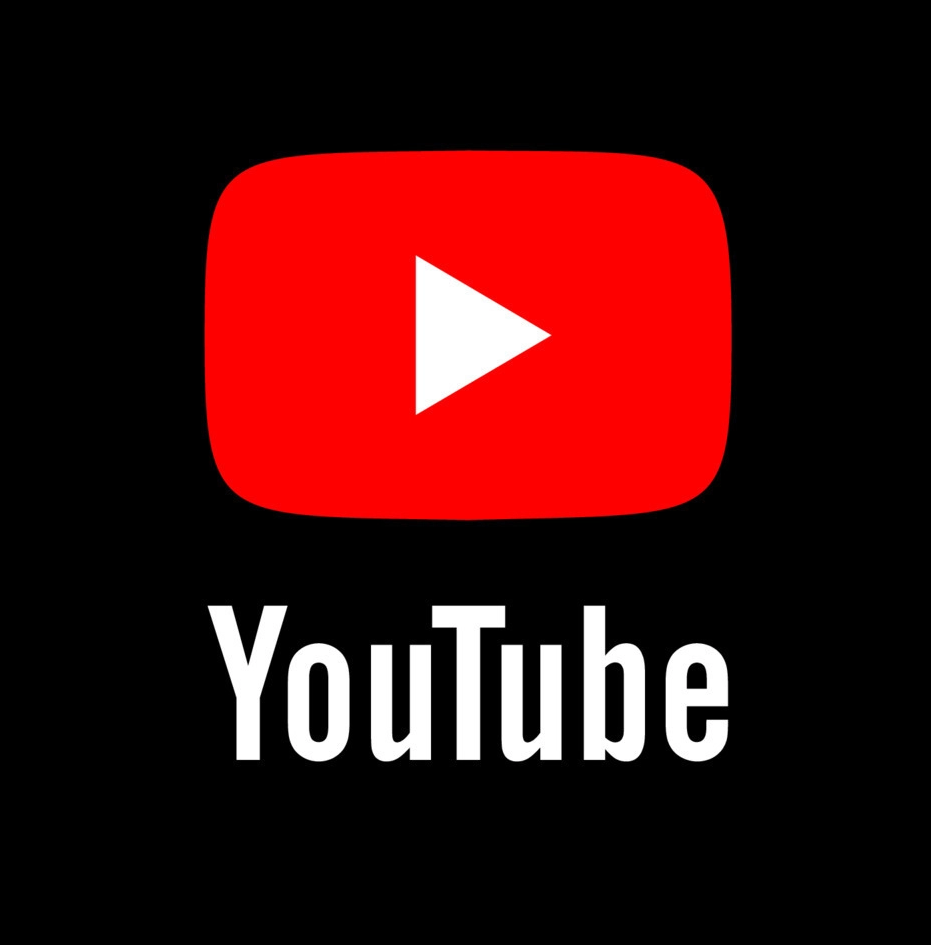
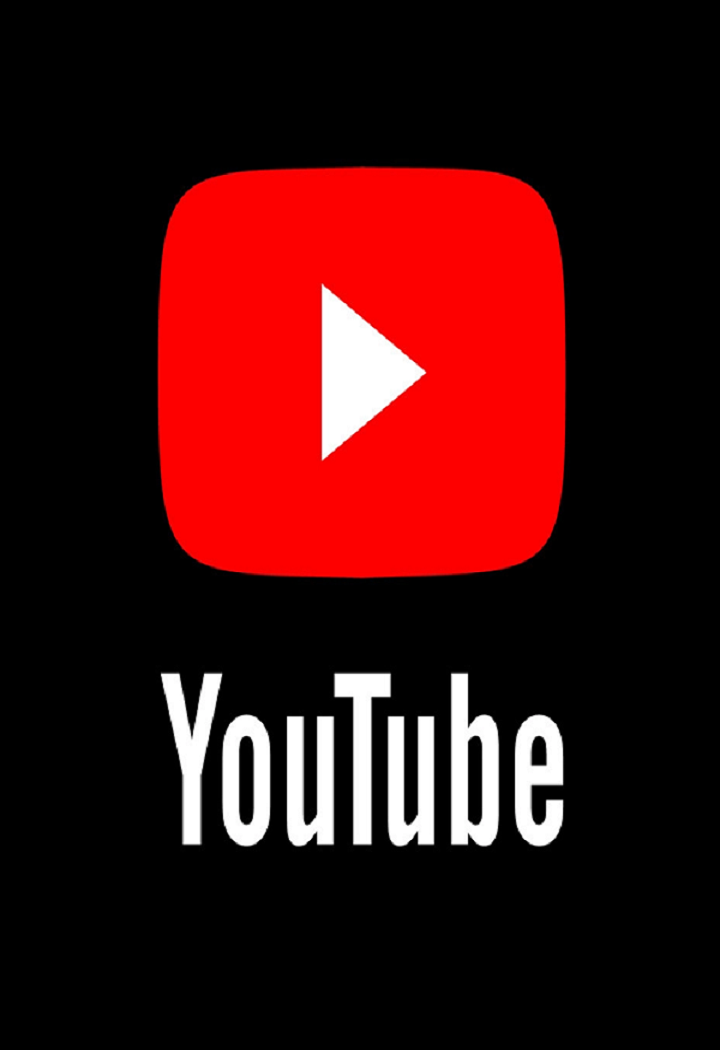
메인 홈 정리 및 뉴스, 광고 추가

Changed region(s): [[0.3972, 0.6751, 0.4278, 0.7672], [0.7333, 0.7058, 0.7639, 0.7672]]

diff --git a/src/main/resources/templates/index.html b/src/main/resources/templates/index.html
@@ -52,45 +52,161 @@
             </form>
         </div> -->
   </nav>
-  <div class="container">
-    <div style ="width:400px; height:500px; border:5px solid">
-    <div id="carouselExampleDark" class="carousel carousel-dark slide" data-bs-ride="carousel">
-      <div class="carousel-indicators">
-        <button type="button" data-bs-target="#carouselExampleDark" data-bs-slide-to="0" class="active d-inline-flex focus-ring focus-ring-light py-1 px-2 text-decoration-none border rounded-2"
-          aria-current="true" aria-label="Slide 1"></button>
-        <button type="button" data-bs-target="#carouselExampleDark" data-bs-slide-to="1" class="d-inline-flex focus-ring focus-ring-light py-1 px-2 text-decoration-none border rounded-2"
-         aria-label="Slide 2"></button>
-        <button type="button" data-bs-target="#carouselExampleDark" data-bs-slide-to="2" class="d-inline-flex focus-ring focus-ring-light py-1 px-2 text-decoration-none border rounded-2"
-         aria-label="Slide 3"></button>
-        <button type="button" data-bs-target="#carouselExampleDark" data-bs-slide-to="3" class="d-inline-flex focus-ring focus-ring-light py-1 px-2 text-decoration-none border rounded-2"
-         aria-label="Slide 4"></button>
-      </div>
-      <div class="carousel-inner">
-        <div class="carousel-item active" data-bs-interval="8000">
-          <a href="https://www.inflearn.com" target="_blank"><img src="image/inflearn.png" style="width:400px; height: 490px;" class="d-block w-100" alt="..."></a>
-        </div>
-        <div class="carousel-item" data-bs-interval="8000">
-          <a href="https://comic.naver.com/index" target="_blank"><img src="image/webtoon.png" style="width:400px; height: 490px;" class="d-block w-100" alt="..."></a>
-        </div>
-        <div class="carousel-item" data-bs-interval="8000">
-          <a href="https://www.youtube.com" target="_blank"><img src="image/youtube.png" style="width:400px; height: 490px;" class="d-block w-100" alt="..."></a>
-        </div>
-        <div class="carousel-item" data-bs-interval="8000">
-          <a href="https://github.com/" target="_blank"><img src="image/git.png" style="width:400px; height: 490px;" class="d-block w-100" alt="..."></a>
-        </div>
-      </div>
-      <button class="carousel-control-prev" type="button" data-bs-target="#carouselExampleDark" data-bs-slide="prev">
-        <span class="carousel-control-prev-icon d-inline-flex focus-ring focus-ring-success py-1 px-2 text-decoration-none border rounded-2" aria-hidden="true"></span>
-        <span class="visually-hidden">Previous</span>
-      </button>
-      <button class="carousel-control-next" type="button" data-bs-target="#carouselExampleDark" data-bs-slide="next">
-        <span class="carousel-control-next-icon d-inline-flex focus-ring focus-ring-success py-1 px-2 text-decoration-none border rounded-2" aria-hidden="true"></span>
-        <span class="visually-hidden">Next</span>
-      </button>
-    </div>
-    </div>
-  </div>
+  <div class="container-lg">
 
+    <div class="row">
+
+      <div class="col-sm-5">
+        <div id="carouselExampleDark" class="carousel carousel-dark slide" data-bs-ride="carousel">
+          <div class="carousel-indicators">
+            <button type="button" data-bs-target="#carouselExampleDark" data-bs-slide-to="0" class="active"
+              aria-current="true" aria-label="Slide 1"></button>
+            <button type="button" data-bs-target="#carouselExampleDark" data-bs-slide-to="1"
+              aria-label="Slide 2"></button>
+            <button type="button" data-bs-target="#carouselExampleDark" data-bs-slide-to="2"
+              aria-label="Slide 3"></button>
+            <button type="button" data-bs-target="#carouselExampleDark" data-bs-slide-to="3"
+              aria-label="Slide 4"></button>
+          </div>
+          <div class="carousel-inner rounded mx-auto d-block">
+            <div class="carousel-item active" data-bs-interval="5000">
+              <a href="https://www.inflearn.com" target="_blank">
+                <img src="image/inflearn.png" class="d-block w-100">
+              </a>
+            </div>
+            <div class="carousel-item" data-bs-interval="5000">
+              <a href="https://github.com" target="_blank">
+              <img src="image/git.png" class="d-block w-100">
+              </a>
+            </div>
+            <div class="carousel-item" data-bs-interval="5000">
+              <a href="https://www.youtube.com" target="_blank">
+              <img src="image/youtube.png" class="d-block w-100">
+              </a>
+            </div>
+            <div class="carousel-item" data-bs-interval="5000">
+              <a href="https://comic.naver.com/index" target="_blank">
+              <img src="image/webtoon.png" class="d-block w-100">
+              </a>
+            </div>
+          </div>
+          <button class="carousel-control-prev" type="button" data-bs-target="#carouselExampleDark"
+            data-bs-slide="prev">
+            <span class="carousel-control-prev-icon" aria-hidden="true"></span>
+            <span class="visually-hidden">Previous</span>
+          </button>
+          <button class="carousel-control-next" type="button" data-bs-target="#carouselExampleDark"
+            data-bs-slide="next">
+            <span class="carousel-control-next-icon" aria-hidden="true"></span>
+            <span class="visually-hidden">Next</span>
+          </button>
+        </div>
+      </div>
+
+      <div class="col-sm-7">
+
+        <div class="row">
+
+          <div class="row-8 row-sm-6">
+            <figure class="figure">
+              <a href="https://www.adobe.com/kr/lead/creativecloud/individual.html?sdid=KQQQV3R6&mv=display"
+              target="_blank">
+              <img src="image/car.jpg" class="img-thumbnail"></a>
+              <figcaption class="figure-caption text-end">상단의 일일 광고를 누르면 새 창에서 연결됩니다.</figcaption>
+            </figure>
+          </div>
+          <div class="row-4 row-sm-6 img-thumbnail ml-1">
+            <font size=5><b>Daily News</b></font>
+            <div class="btn-group float-end">
+              <button class="btn btn-secondary btn-sm" type="button">
+                바로가기
+              </button>
+              <button type="button" class="btn btn-sm btn-secondary dropdown-toggle dropdown-toggle-split"
+                data-bs-toggle="dropdown" aria-expanded="false">
+                <span class="visually-hidden">바로가기</span>
+              </button>
+              <ul class="dropdown-menu">
+                <li><a class="dropdown-item" href="https://www.joongang.co.kr/" target="_blank">중앙일보</a></li>
+                <li><a class="dropdown-item" href="https://www.ytn.co.kr/" target="_blank">YTN</a></li>
+                <li><a class="dropdown-item" href="https://www.yna.co.kr/" target="_blank">연합뉴스</a></li>
+              </ul>
+            </div>
+
+            <div class="col img-thumbnail my-2">
+              <div class="row">
+                <div class="col-sm-8">
+                  <img src="image/thum1.jpg" style="border-radius: 70%;">
+                  <a href="https://www.seoul.co.kr/"
+                    class="line nope" target="_blank">
+                    <font size=2>서울신문<br></font>
+                  </a>
+                  <a href="https://www.seoul.co.kr/news/newsView.php?id=20230522500072&wlog_tag3=naver"
+                    class="mainnope" target="_blank">
+                    <font size=4><b>[속보] 검찰 '마약 혐의 홍길동 구속영장 청구</b><br></font>
+                  </a>
+                  <a href="https://www.seoul.co.kr/news/newsView.php?id=20230522500072&wlog_tag3=naver"
+                    class="textline nope" target="_blank">
+                    <font size=2>검찰이 프로포폴과 코카인 등 마약류 투약 혐의를 받고 있는 배우 홍길동에 대해 22일 구속영장을 청구했다.
+                      경찰 등에 따르면 서울중앙지검은 이날 마약류 관리에 관한 법률 위반 혐의를 받는 홍씨와 그의...
+                    </font>
+                  </a>
+                </div>
+                <div class="col-sm-4">
+                  <img src="image/news1.jpg" class="img-thumbnail">
+                </div>
+              </div>
+            </div>
+            <div class="col img-thumbnail my-2">
+              <div class="row">
+                <div class="col-sm-8">
+                  <img src="image/thum2.jpg" style="border-radius: 70%;">
+                  <a href="https://www.moneys.co.kr"
+                    class="line nope" target="_blank">
+                    <font size=2>머니S<br></font>
+                  </a>
+                  <a href="https://www.moneys.co.kr/news/mwView.php?no=2023052213065849550"
+                    class="mainnope" target="_blank">
+                    <font size=4><b>[단독] 다음·네이버 '뉴스제휴평가위원회' 잠정 중단...</b><br></font>
+                  </a>
+                  <a href="https://www.moneys.co.kr/news/mwView.php?no=2023052213065849550"
+                    class="textline nope" target="_blank">
+                  <font size=2>뉴스제휴평가위원회(제평위)가 활동을 중단하기로 결정했다. 제평위는 포털의 공정성을 두고 정치권의 압박이 이어지자
+                    개선 방안이 필요하다고 판단한 네이버와 다음의 요청을 수용해 이 같이 결정...
+                  </font></a>
+                </div>
+                <div class="col-sm-4">
+                  <img src="image/news2.jpg" class="img-thumbnail">
+                </div>
+              </div>
+            </div>
+            <div class="col img-thumbnail my-2">
+              <div class="row">
+                <div class="col-sm-8">
+                  <img src="image/thum3.jpg" style="border-radius: 70%;">
+                  <a href="https://www.sedaily.com"
+                    class="line nope" target="_blank">
+                  <font size=2>서울경제<br></font></a>
+                  <a href="https://www.sedaily.com/NewsView/29POFJ2XEQ"
+                    class="mainnope" target="_blank">
+                  <font size=4><b>편의점이 금융과 만났다... 최고 연 6% 적금 선봬</b><br></font></a>
+                  <a href="https://www.sedaily.com/NewsView/29POFJ2XEQ"
+                    class="textline nope" target="_blank">
+                  <font size=2>기사내용 요약 "변화화는 미디어 환경에 적합한 새 제휴 모델 검토" 입점심사 당분간 중단…"중립성·공정성 유지 방안 모색"
+                    중립성과 공정성을 유지할 수 있는 제휴평가시스템에 대해 면밀히 검토 계획...
+                  </font></a>
+                </div>
+                <div class="col-sm-4">
+                  <img src="image/news3.jpg" class="img-thumbnail">
+                </div>
+              </div>
+            </div>
+          </div>
+
+        </div>
+      </div>
+    </div>
+
+  </div>
   <!-- Optional JavaScript; choose one of the two! -->
 
   <!-- Option 1: jQuery and Bootstrap Bundle (includes Popper) -->
@@ -102,7 +218,6 @@
       integrity="sha384-Fy6S3B9q64WdZWQUiU+q4/2Lc9npb8tCaSX9FK7E8HnRr0Jz8D6OP9dO5Vg3Q9ct"
       crossorigin="anonymous"></script>
   </footer>
-
 
   <!-- Option 2: Separate Popper and Bootstrap JS -->
   <!--

diff --git a/src/main/resources/static/css/style.css b/src/main/resources/static/css/style.css
@@ -1,85 +1,5 @@
-/* 초기화 */
-*{
-    margin: 0;
-    padding: 0;
-    box-sizing: border-box;
-  }
-  
-  li{
-    list-style-type: none;
-  }
-  
-  /* 보여줄 구간의 높이와 넓이 설정 */
-  #slideShow{
-    width: 500px;
-    height: 300px;
-    position: relative;
-    margin: 50px auto;
-    overflow: hidden;   
-    /*리스트 형식으로 이미지를 일렬로 
-    정렬할 것이기 때문에, 500px 밖으로 튀어 나간 이미지들은
-    hidden으로 숨겨줘야됨*/
-  }
-  
-  
-  .slides{
-    position: absolute;
-    left: 0;
-    top: 0;
-    width: 2500px; /* 슬라이드할 사진과 마진 총 넓이 */
-    transition: left 0.5s ease-out; 
-    /*ease-out: 처음에는 느렸다가 점점 빨라짐*/
-  }
-  
-  /* 첫 번째 슬라이드 가운데에 정렬하기위해
-  첫번째 슬라이드만 margin-left조정 */
-  .slides li:first-child{
-    margin-left: 100px;
-  }
-  
-  /* 슬라이드들 옆으로 정렬 */
-  .slides li:not(:last-child){
-    float: left;
-    margin-right: 100px;
-  }
-  
-  .slides li{
-    float: left;
-  }
-  
-  .controller span{
-    position:absolute;
-    background-color: transparent;
-    color: black;
-    text-align: center;
-    border-radius: 50%;
-    padding: 10px 20px;
-    top: 50%;
-    font-size: 1.3em;
-    cursor: pointer;
-  }
-  
-  /* 이전, 다음 화살표에 마우스 커서가 올라가 있을때 */
-  .controller span:hover{
-    background-color: rgba(128, 128, 128, 0.11);
-  }
-  
-  .prev{
-    left: 10px;
-  }
-  
-  /* 이전 화살표에 마우스 커서가 올라가 있을때 
-  이전 화살표가 살짝 왼쪽으로 이동하는 효과*/
-  .prev:hover{
-    transform: translateX(-10px);
-  }
-  
-  .next{
-    right: 10px;
-  }
-  
-  /* 다음 화살표에 마우스 커서가 올라가 있을때 
-  이전 화살표가 살짝 오른쪽으로 이동하는 효과*/
-  .next:hover{
-    transform: translateX(10px);
-  }
+img {
+  width: 300px;
+  height: 150px;
+  object-fit: cover;
+}

diff --git a/src/main/resources/templates/fragments/common.html b/src/main/resources/templates/fragments/common.html
@@ -9,6 +9,7 @@
     <!-- Bootstrap CSS -->
     <link rel="stylesheet" href="https://cdn.jsdelivr.net/npm/bootstrap@4.6.2/dist/css/bootstrap.min.css"
         integrity="sha384-xOolHFLEh07PJGoPkLv1IbcEPTNtaed2xpHsD9ESMhqIYd0nLMwNLD69Npy4HI+N" crossorigin="anonymous">
+    <link href="css/text.css" rel="stylesheet">
     <link href="starter-template.css" th:href="@{/css/starter-template.css}" rel="stylesheet">
     <link href="https://cdn.jsdelivr.net/npm/bootstrap@5.2.3/dist/css/bootstrap.min.css" rel="stylesheet">
     <link href="https://getbootstrap.com/docs/5.2/assets/css/docs.css" rel="stylesheet">
